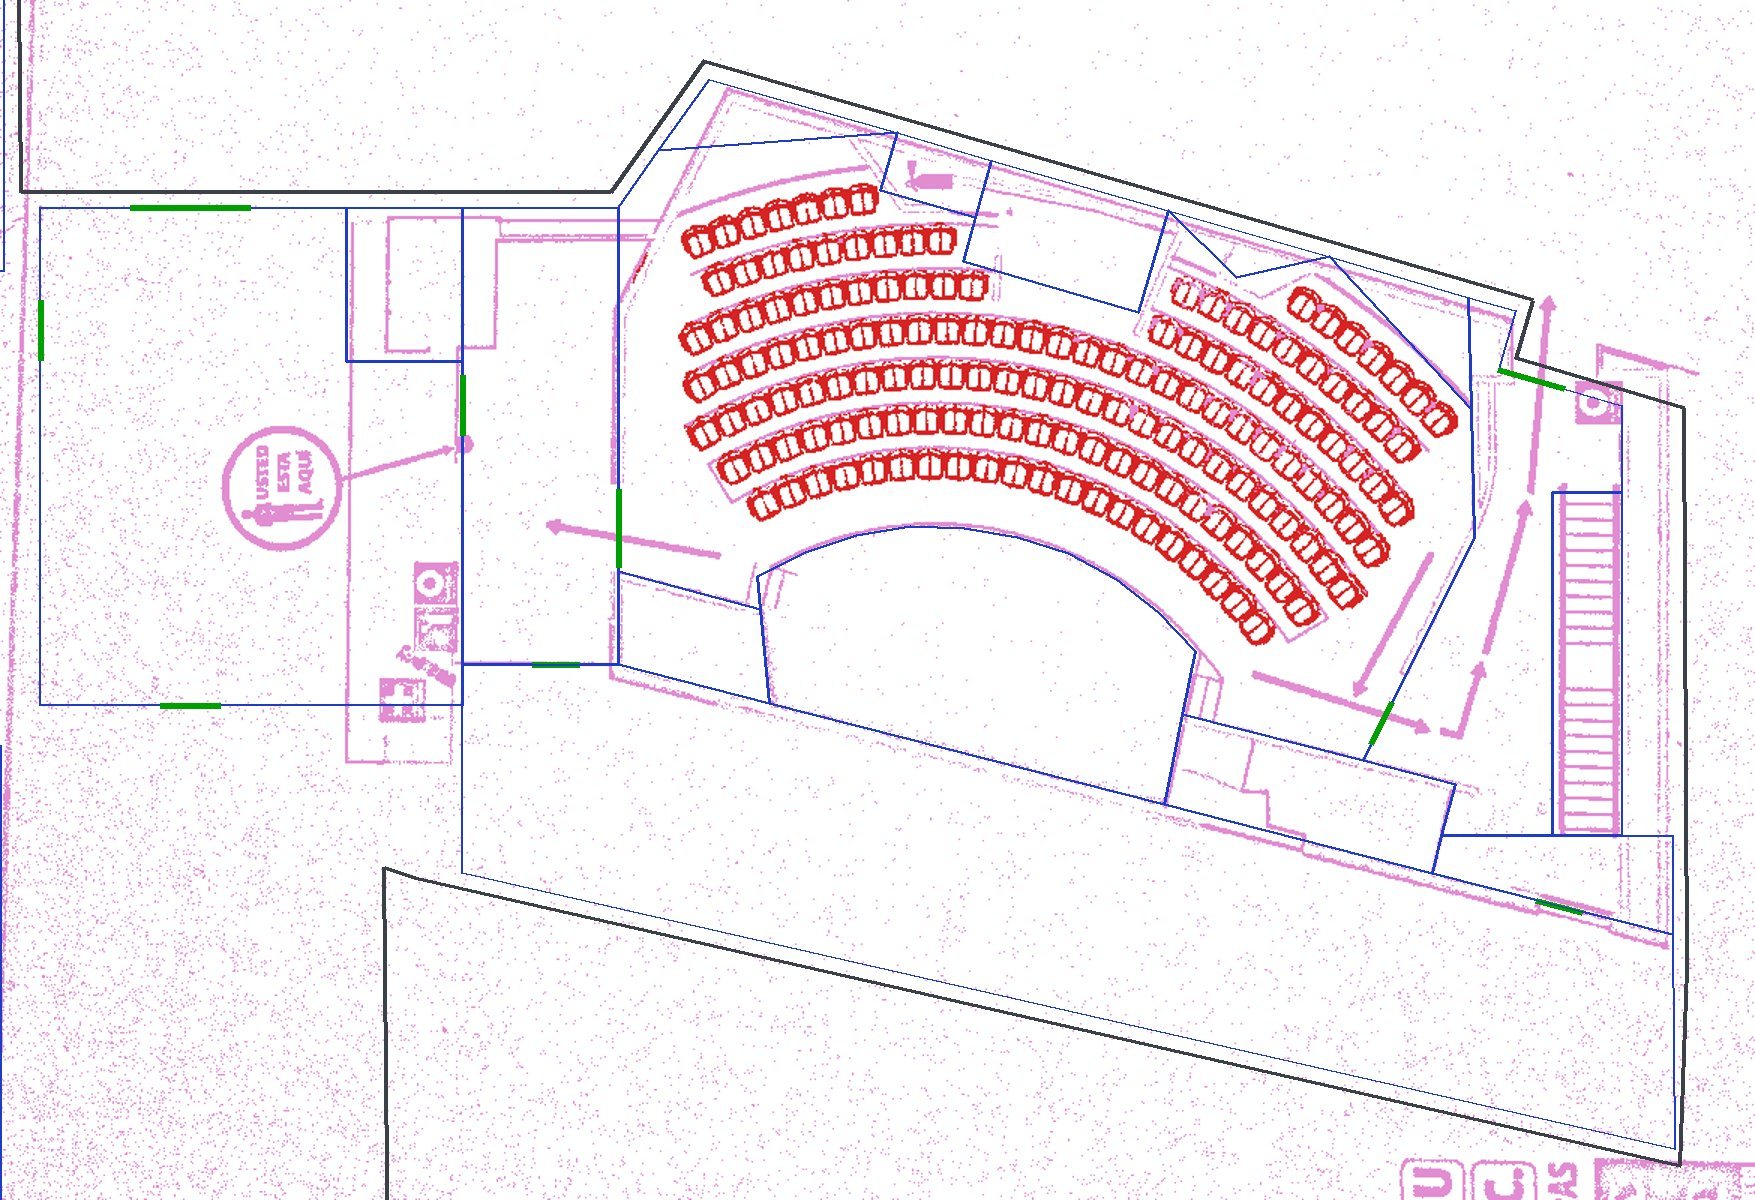
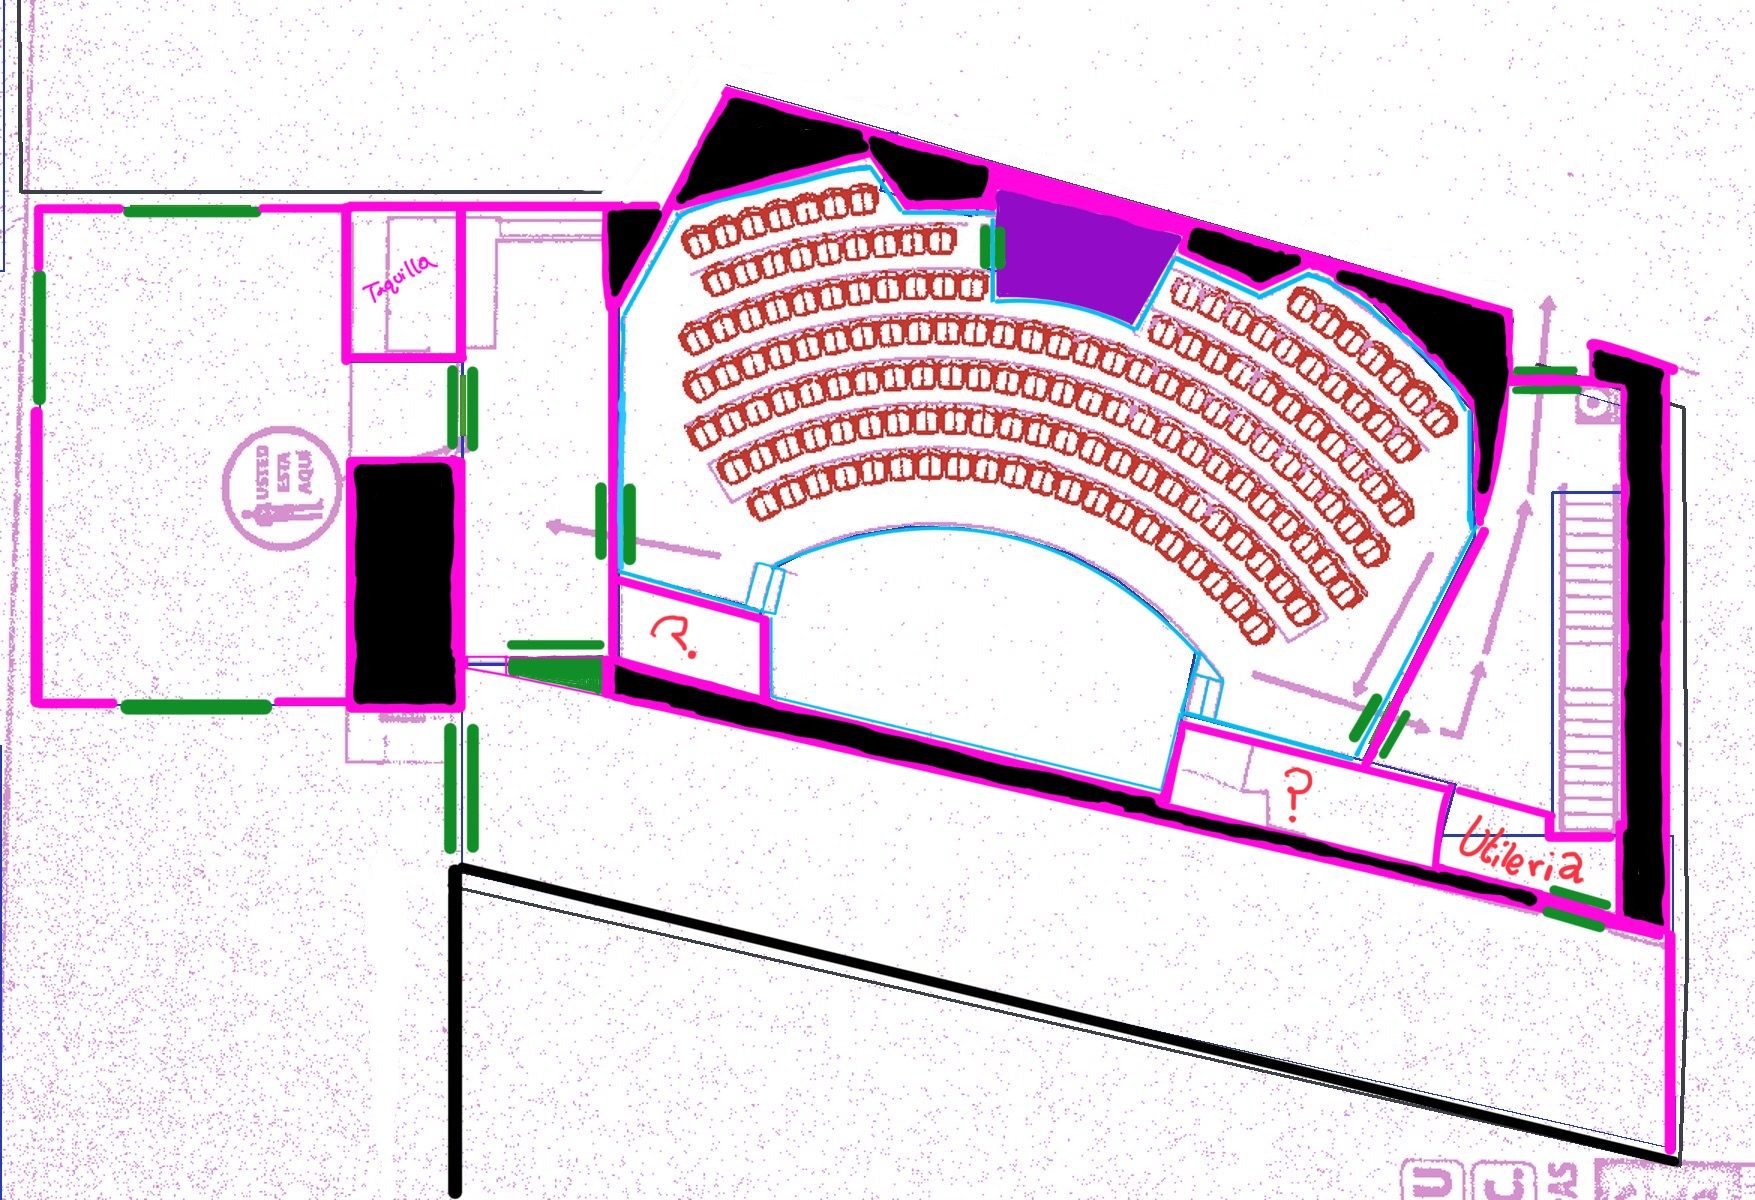
docs: update the captures and the backend state for Brian's auditorium
The overlays on both evacuation plans, the renders of the wing and the exit,
and Brian's marks they follow. The exit is provisional until in-09 to in-19.

Refs #218

diff --git a/docs/state/backend.md b/docs/state/backend.md
@@ -66,28 +66,26 @@
 
 ## In flight
 
-- **EC P1's auditorium, outline and Carrera 9A exit (#218, `feature/ec-p1-turned-auditorium`):**
-  - The auditorium's plan laid over the floor's fits by scale, a quarter turn and a shift (corners within 0.8%);
-    the wing is built from straight lines: the outline's (the tape's) for the north wall, chamfer and Calle 62, and
-    lines fitted on that plan for the south wall, the hall's east wall and the stage; each room is an intersection of
-    them and the hall what is left, with every seat the plan prints inside it (`scripts/plan-tracing/wip/aud_walls.py`;
-    a square block and then Brian's traced outlines were refused). `register.py` gained `"turned"`, `"drawn"` (rooms
-    given in floor units) and `"outline"`; `ec-surveyed.json` uses `"drawn"` and `"outline"`. The guard's booth is
-    now the tape's (1.52 x 1.69 m); the passage's width waits on Brian (point 14 of Core's review).
-  - The floor's `outline` is the surveyed parts on P1, the open patio and the passage between the tower and the
-    Casa de Francisco de Paula Vélez's lot line, out to the sidewalk: no contract change was needed for the
-    casa's wall. The gate onto the Carrera 9A is 2.5 m, as the survey measured it (a-10).
+- **EC P1's auditorium, outline and Carrera 9A exit (#218, PR #221, `feature/ec-p1-turned-auditorium`):**
+  - The wing is built from straight lines (`scripts/plan-tracing/wip/aud_walls.py`): the outline's (the tape's) for
+    the north wall and the Calle 62, lines fitted on the auditorium's plan for the south wall, the hall's east walls
+    and the stage's arc, and, since 2026-11-18, lines fitted on Brian's marks over that plan
+    (`~/Documents/KApp/mapa-pisos/ec-p1-218/3-despues-sobre-plano-AU.jpg`, matched to the plan's photo) for the
+    hall's north side, Audiovisuales, the lobby and the doors. Nothing is drawn where he painted solid concrete:
+    `P1-26` to `P1-29` are dropped, and the south and east walls are a wall thick. Every seat of the plan is inside
+    the hall; the script prints the checks (seats, overlaps, corner caps, short sides, corners on their lines).
+  - **Provisional, the way down to the Carrera 9A gate:** `P1-9A-PASILLO` (CORRIDOR), `P1-9A-RAMPA` (RAMP) and
+    `P1-9A-ESCALERA` (STAIRS), from Brian's drawing of 2026-11-17 where `survey-plan.py` puts them. Redraw them when he
+    takes `in-09` to `in-19` (84 to 94, in the survey sheet since #235). The guard's booth is the tape's (1.52 x 1.69 m).
+  - `register.py` gained `"turned"`, `"drawn"` (rooms given in floor units) and `"outline"`; `ec-surveyed.json`
+    uses `"drawn"` and `"outline"`. The floor's `outline` is the surveyed parts on P1, the open patio and the
+    passage between the tower and the casa's lot line, out to the sidewalk; the gate is 2.53 m (survey 46).
   - Corridors: only `PAS-TRANSVERSAL` and `PAS-SALIDA-9A`; the two through the cafeteria went.
   - V017 puts the floor in place even over a saved one; the contract example and its label points follow.
   - `render-map-base.py` now draws a floor's outline, corridors and doors. Review images:
     `~/Documents/KApp/mapa-pisos/ec-p1-218/` on Brian's Mac.
   - After merge: Kotlin re-runs `capture-demo-data.sh` so the demo serves the new example.
   - Next: P2's gallery over the hall as now drawn (#220).
-
-- **Survey of the Cra 9A exit (`feature/survey-cra-9a-passage`):** 11 new distances in the portal's survey sheet,
-  `in-09` to `in-19` (numbers 84 to 94), for the corridor, ramp and stairs Brian found in the passage on 2026-11-17:
-  their widths, lengths, where each starts and ends, and how the booth lines up with the ramp. Once he takes them,
-  #221 draws the passage from them.
 
 - **map 3.7.0, `labelPoint` (#195):**
   - #211, merged: the contract. `Space.labelPoint`, the `CentralGroundFloor` example (EC P1 as the dev server

diff --git a/docs/map/capturas/ec-p1-218/README.md b/docs/map/capturas/ec-p1-218/README.md
@@ -1,4 +1,4 @@
-# EC P1: the auditorium built from the plan's walls, the outline and the Carrera 9A exit (#218)
+# EC P1: the auditorium built from its plan and Brian's marks, the outline and the Carrera 9A exit (#218)
 
 Review captures for #218. A copy is on Brian's Mac in `~/Documents/KApp/mapa-pisos/ec-p1-218/`.
 
@@ -6,9 +6,13 @@ Review captures for #218. A copy is on Brian's Mac in `~/Documents/KApp/mapa-pis
 |---|---|
 | `1-superposicion-planos-AU-sobre-P1.jpg` | The auditorium's evacuation plan (magenta lines) laid over the floor's, fitted by scale, a quarter turn and a shift on the wing's five outer corners |
 | `2-antes-V016-sobre-plano-AU.jpg` | V016's auditorium (red) over the auditorium's plan, in the floor's units |
-| `3-despues-sobre-plano-AU.jpg` | The wing as now drawn (blue, doors green) over the auditorium's plan (magenta), its seats in red, every one inside the hall, and the floor's outline on top (dark grey) |
-| `5-render-despues.jpg` | The whole floor as `scripts/render-map-base.py` draws it now: outline, corridors and doors as the apps draw them |
-| `6-ala-auditorio-antes.jpg`, `7-ala-auditorio-despues.jpg` | The auditorium's wing, before and after |
-| `8-salida-9A-antes.jpg`, `9-salida-9A-despues.jpg` | The passage to the Carrera 9A, before and after |
+| `3-despues-sobre-plano-AU.jpg` | Brian's marks (2026-11-17) over the previous drawing: light blue the hall, pink the walls he is sure of, green the doors, black solid concrete, purple Audiovisuales, red the props room, "?" unidentified |
+| `6-ala-auditorio-antes.jpg`, `8-salida-9A-antes.jpg` | The wing and the passage to the Carrera 9A as V016 drew them |
+| `11-marcas-salida-9A.jpg` | Brian's marks on the exit (2026-11-17): yellow stairs, blue ramp, green level corridor, peach the booth, magenta the sidewalk |
+| `12-ala-sobre-plano-AU.jpg` | The wing as now drawn (blue, doors green, the outline dark grey on top) over the auditorium's plan |
+| `13-ala-sobre-plano-P1.jpg` | The same over the floor's plan (EC-P1-PE), laid with the wing's four surveyed corners |
+| `14-salida-9A-sobre-plano-P1.jpg` | The exit over the floor's plan; orange is provisional until Brian measures `in-09` to `in-19` |
+| `15-render-piso.jpg` | The whole floor as `scripts/render-map-base.py` draws it now |
+| `16-ala-auditorio-render.jpg`, `17-salida-9A-render.jpg` | The wing and the exit, rendered |
 
 The "before" renders are V016's seed drawn with the new `render-map-base.py`, so both sides are drawn the same way.
